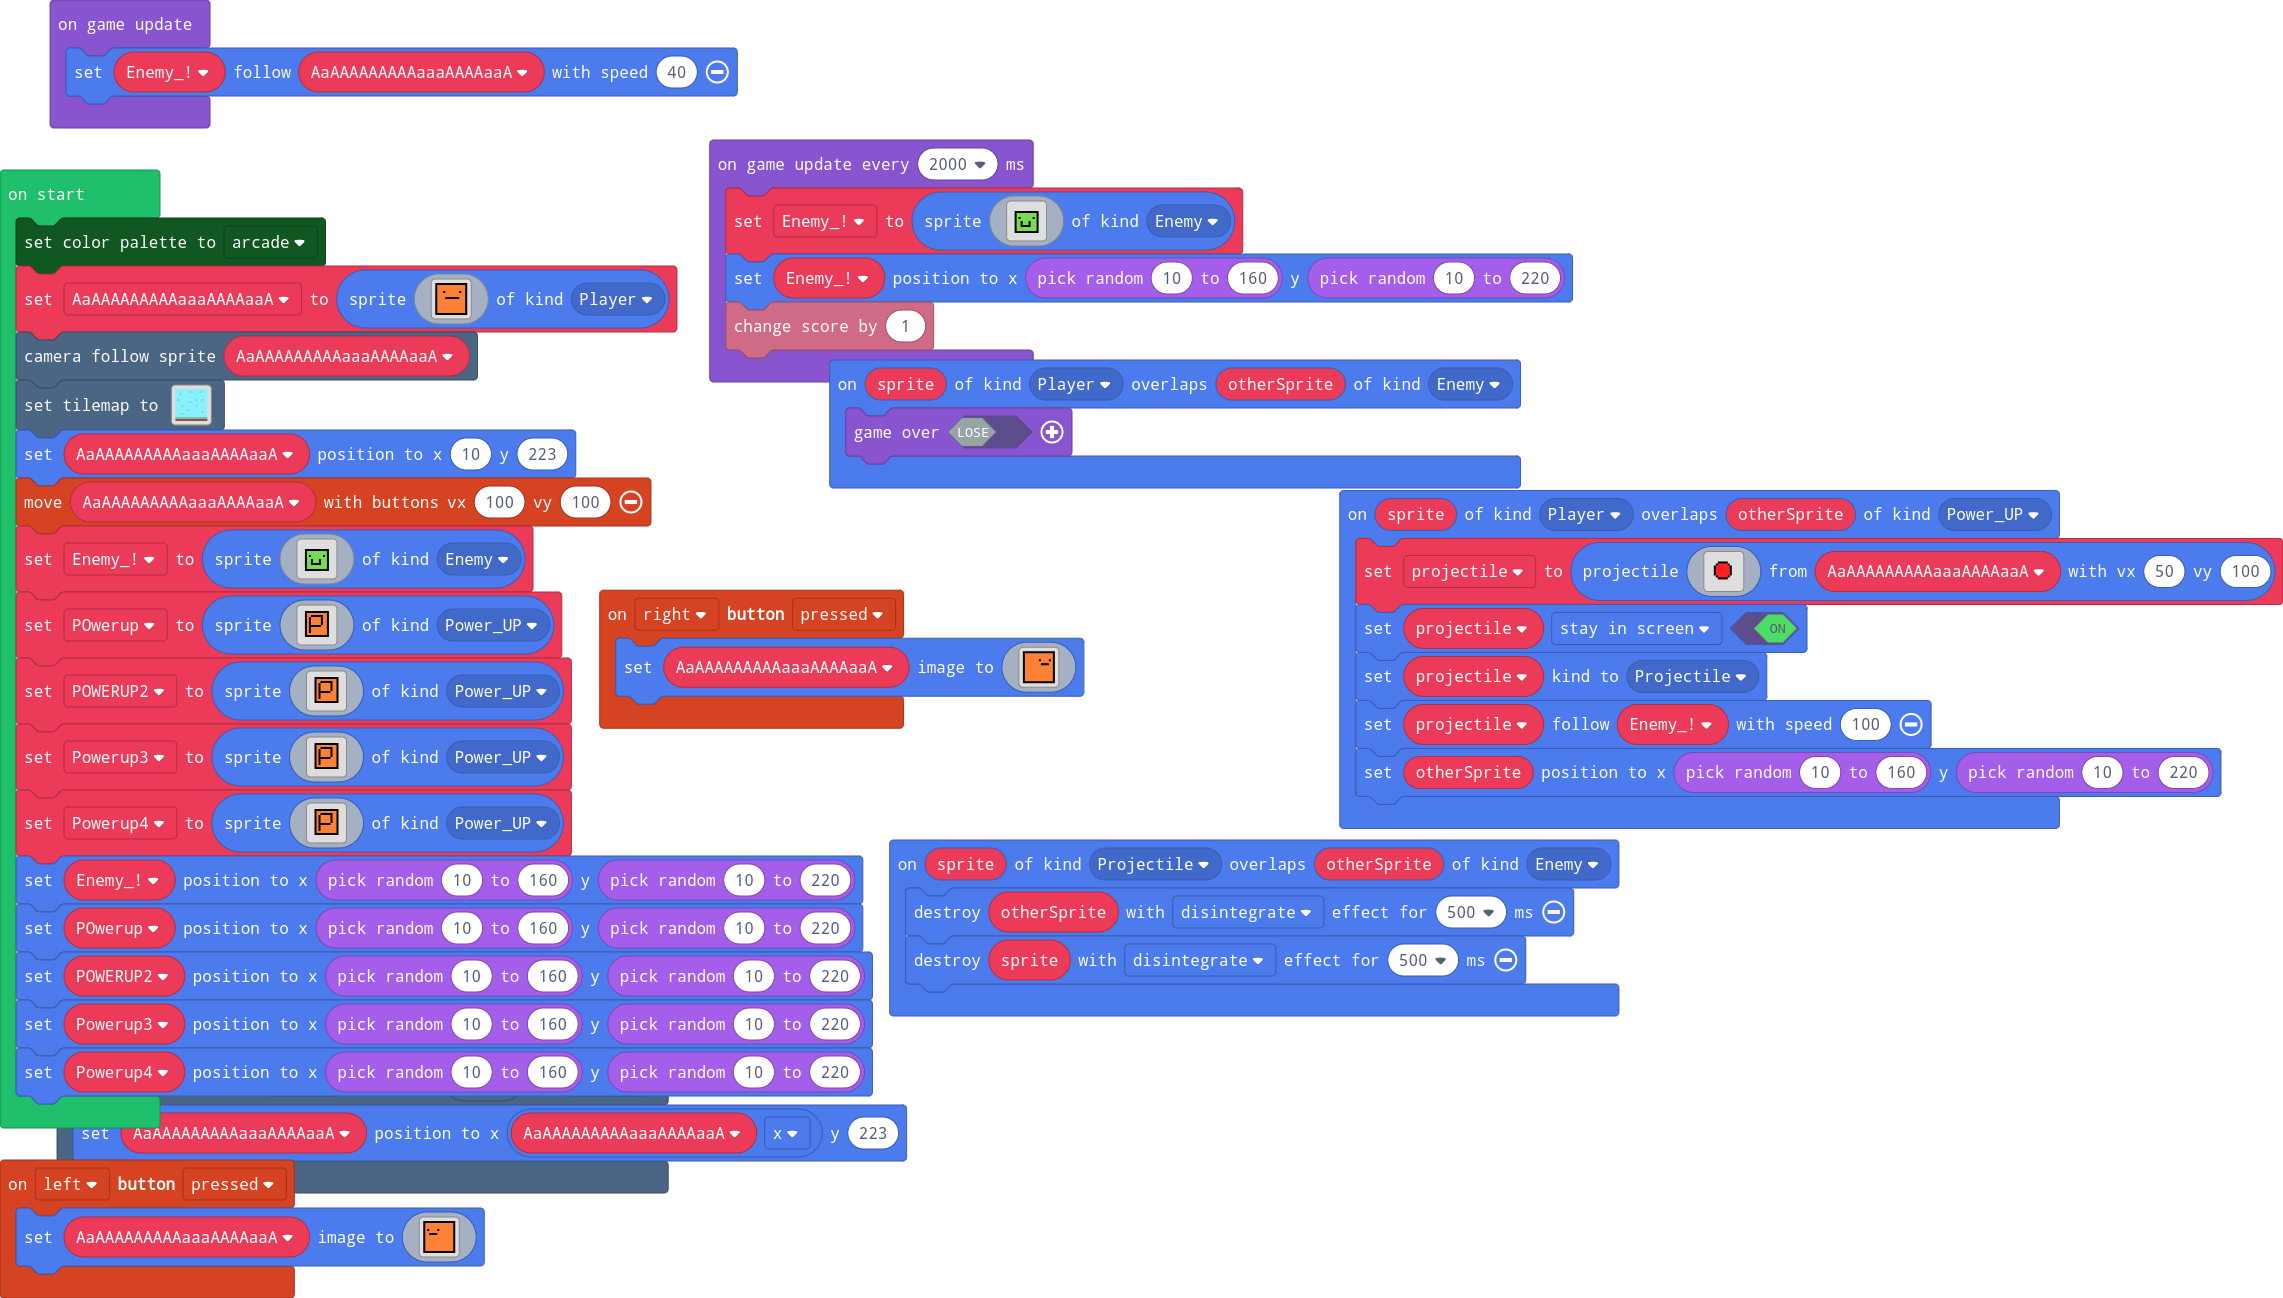
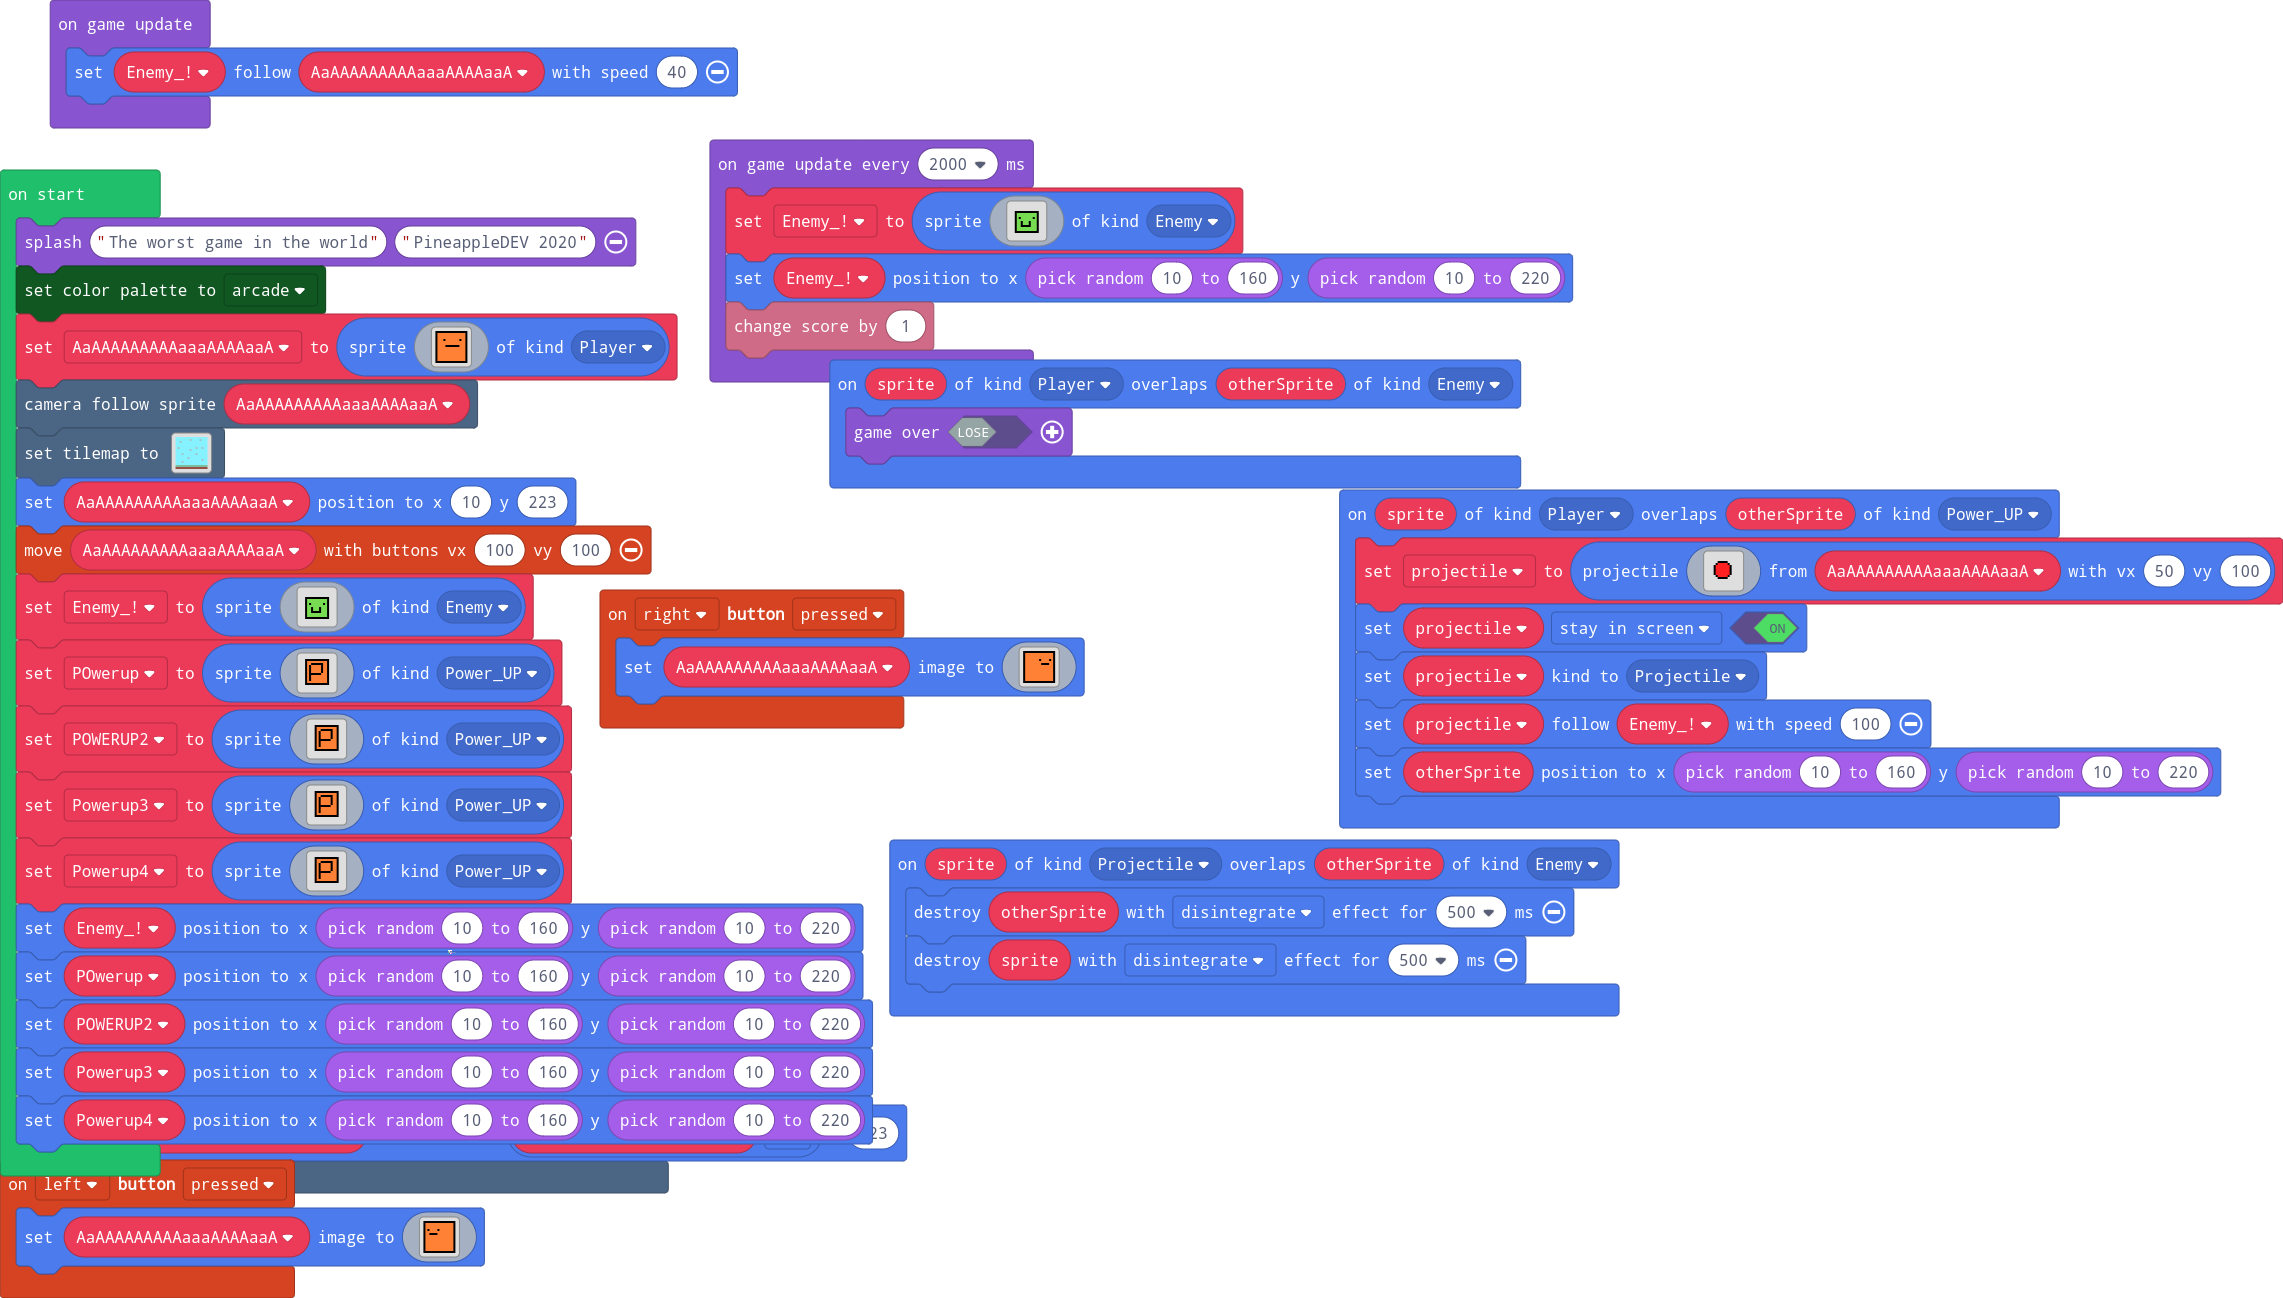
SPLASH SCREEN!!!

diff --git a/main.ts b/main.ts
@@ -175,6 +175,7 @@ scene.onOverlapTile(SpriteKind.Player, myTiles.tile2, function (sprite, location
 let projectile: Sprite = null
 let Enemy_: Sprite = null
 let AaAAAAAAAAAaaaAAAAaaA: Sprite = null
+game.splash("The worst game in the world", "PineappleDEV 2020")
 color.setPalette(
 color.Arcade
 )
